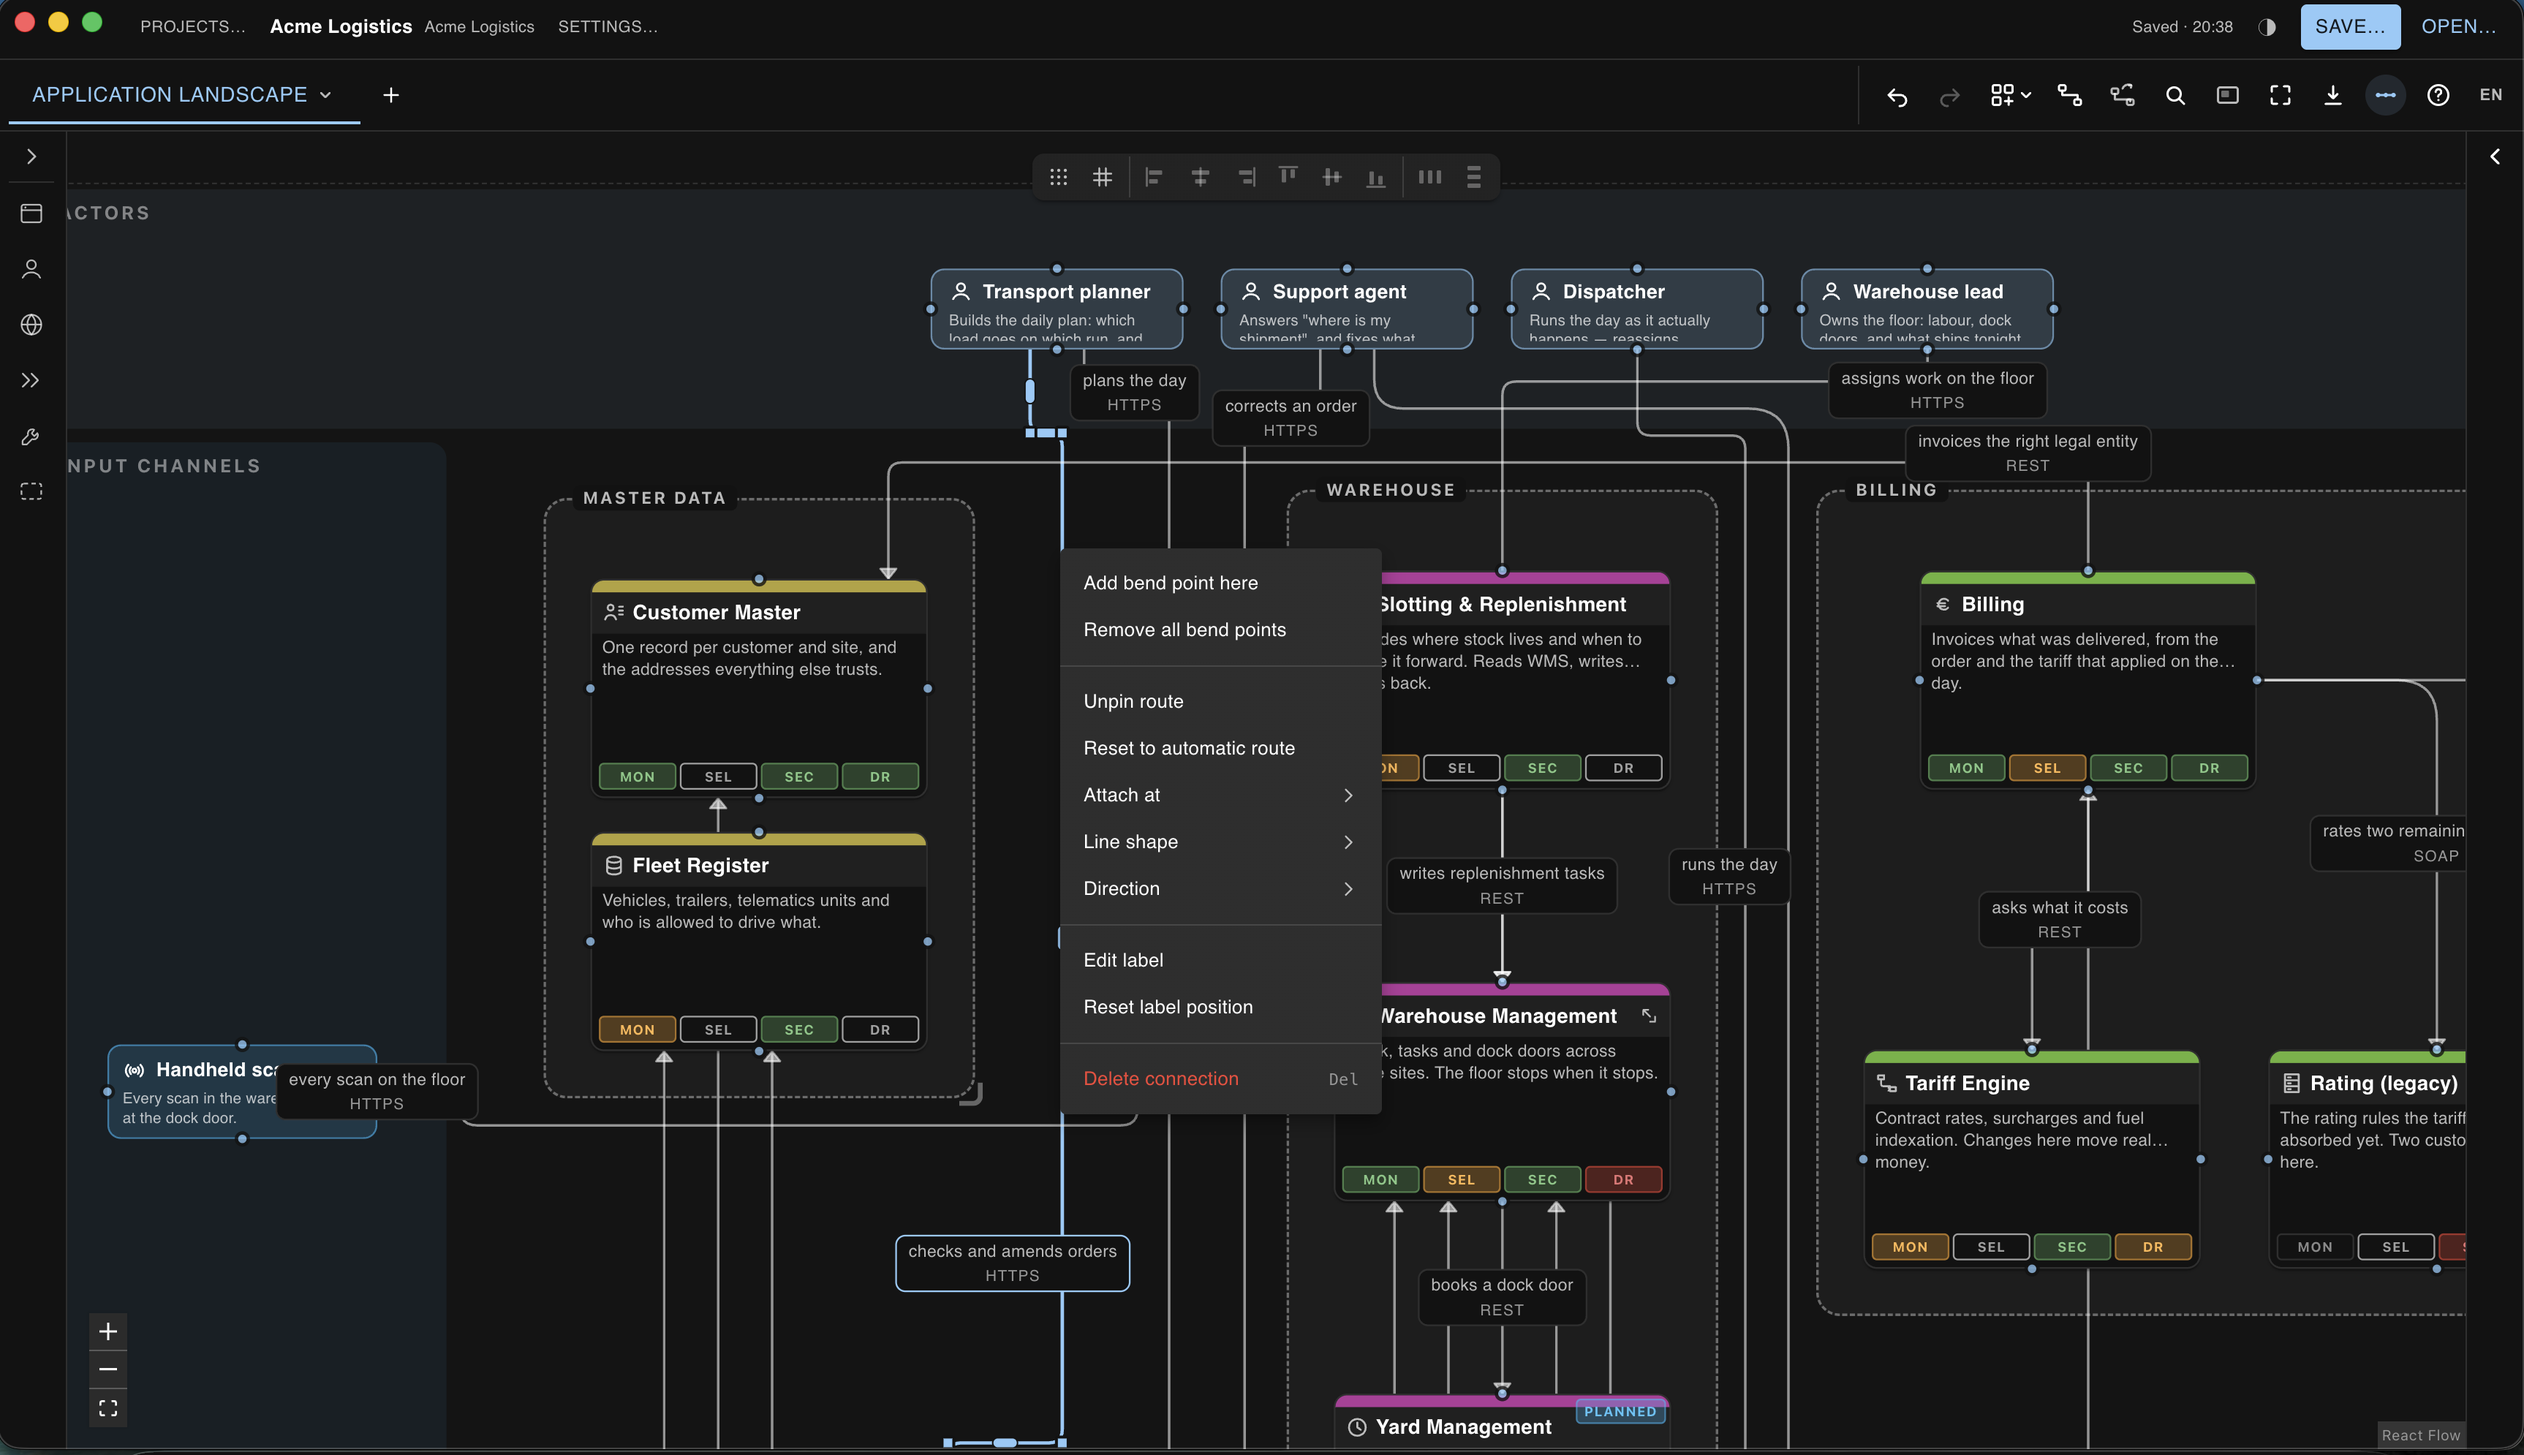
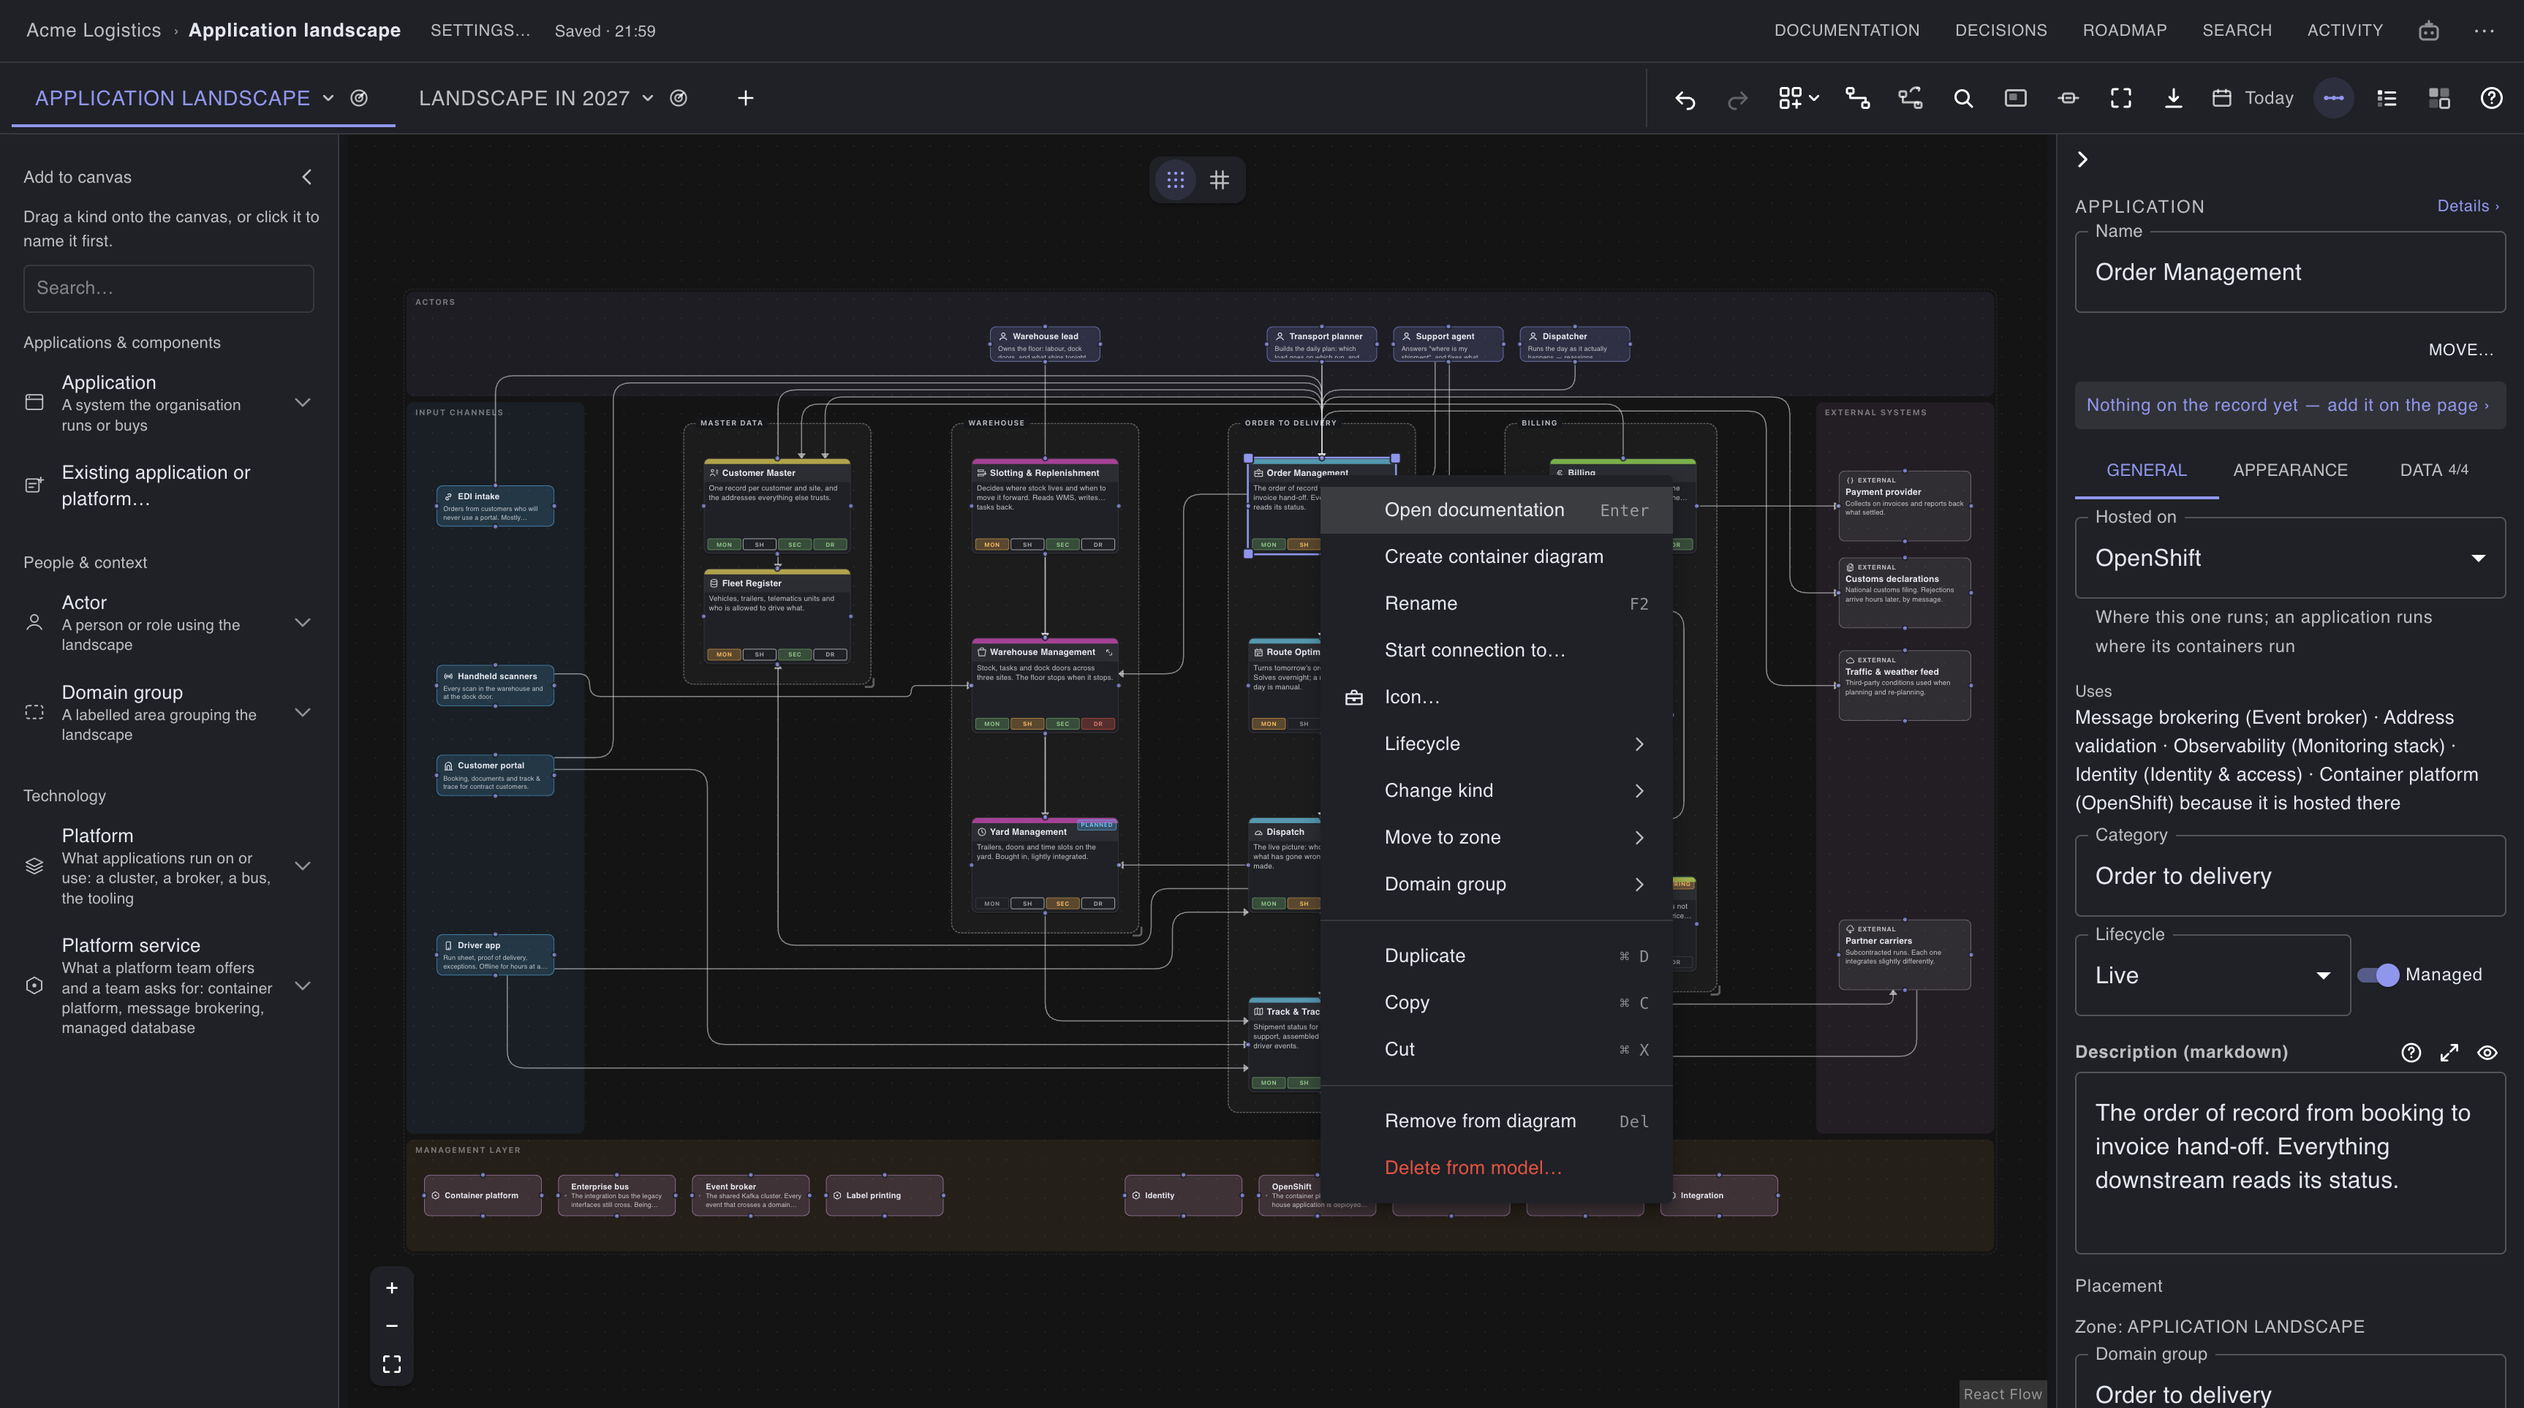
docs: the organisation and landscape screenshots, retaken
The organisation screen changed shape — a subtitle, a sentence on every
card, Needs attention under them — and the landscape gained the
palette caption, the legend button and zoom controls of its own. Taken
from the web build at the size the earlier ones were.

diff --git a/README.md b/README.md
@@ -8,9 +8,9 @@ own machine and goes no further than you send it.
 It runs as a desktop app on macOS, Windows and Linux, and in a browser from
 source.
 
-![The Acme Logistics example open in the desktop app: an application landscape
-in Layer-7 bands, with domain groups, lifecycle badges, routed connections and
-the right-click menu of a connection open](docs/screenshot-landscape.png)
+![The Acme Logistics example open: an application landscape in Layer-7 bands,
+with domain groups, lifecycle badges, routed connections, the right-click menu
+of an application open and the inspector beside it](docs/screenshot-landscape.png)
 
 *The shipped example, `Acme Logistics` — a fictional landscape you can open,
 copy and take apart.*
